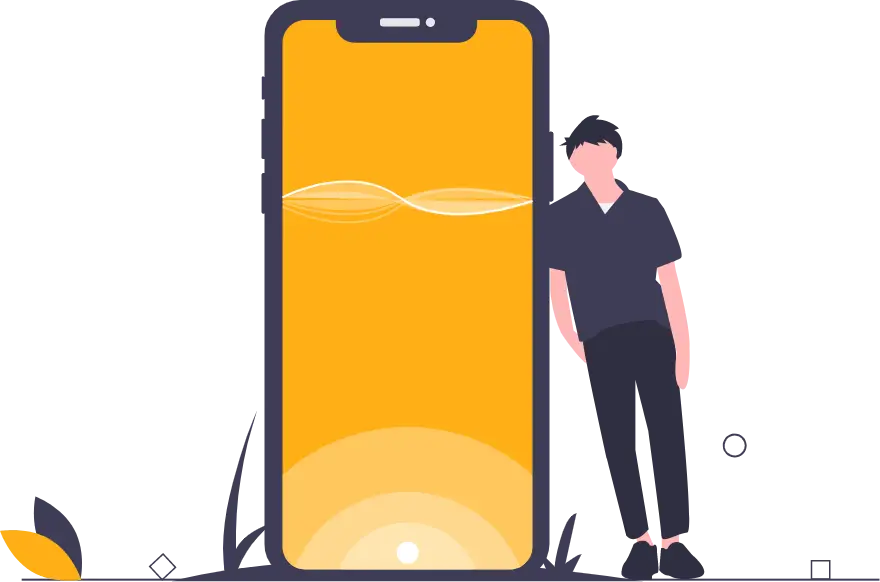
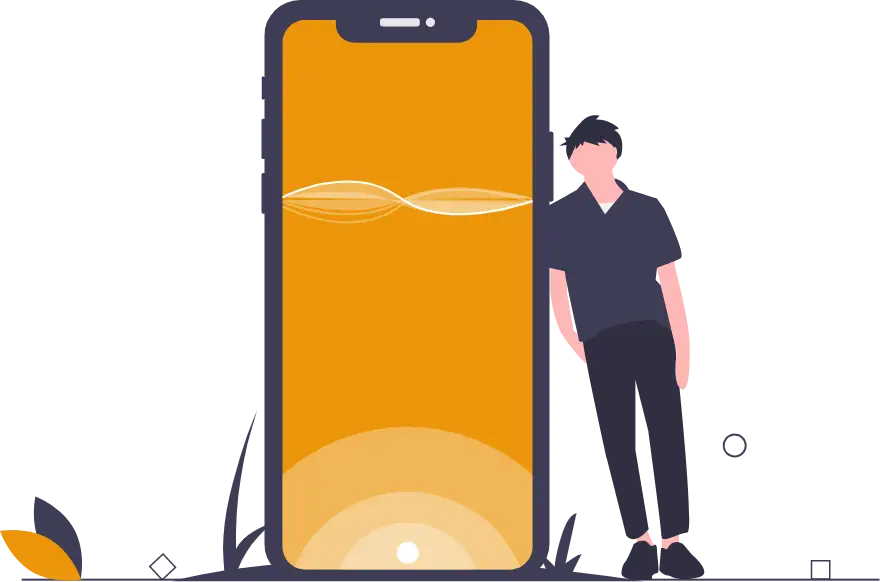
Themes

Changed region(s): [[0.3068, 0.0309, 0.6136, 0.8041], [0.0, 0.8969, 0.092, 1.0]]

diff --git a/src/components/Navbar/SelectColorModal/SelectColorModal.scss b/src/components/Navbar/SelectColorModal/SelectColorModal.scss
@@ -12,16 +12,25 @@
         fill: white;
     }
     &.dark {
-        background: $clr-primary-10-dark;
+        background: $clr-primary-7-dark;
+        svg {
+            fill: rgb(44, 44, 44);
+        }
     }
     &.light {
         background: $clr-primary-5;
     }
     &.blue {
-        background: $clr-primary-5-blue;
+        background: $clr-primary-3-blue;
+        svg {
+            fill: $clr-primary-7-blue;
+        }
     }
     &.yellow {
         background: $clr-primary-5-yellow;
+        svg {
+            fill: $clr-primary-8-yellow;
+        }
     }
 }
 
@@ -44,15 +53,24 @@
         fill: white;
     }
     &.dark {
-        background: $clr-primary-10-dark;
+        background: $clr-primary-7-dark;
+        svg {
+            fill: rgb(44, 44, 44);
+        }
     }
     &.light {
         background: $clr-primary-5;
     }
     &.blue {
-        background: $clr-primary-5-blue;
+        background: $clr-primary-3-blue;
+        svg {
+            fill: $clr-primary-7-blue;
+        }
     }
     &.yellow {
         background: $clr-primary-5-yellow;
+        svg {
+            fill: $clr-primary-8-yellow;
+        }
     }
 }

diff --git a/src/sass/global.scss b/src/sass/global.scss
@@ -183,7 +183,7 @@ p {
             color: $clr-white;
         }
         .tech-icon {
-            color: $clr-white;
+            color: $clr-primary-6-dark;
         }
         a {
             color: $clr-white;
@@ -250,7 +250,7 @@ p {
             color: $clr-black;
         }
         .tech-icon {
-            color: $clr-grey-5;
+            color: $clr-primary-5;
         }
         a {
             color: $font-color-dark;
@@ -311,7 +311,7 @@ p {
             color: $clr-white;
         }
         .tech-icon {
-            color: $clr-white;
+            color: $clr-primary-1-blue;
         }
         a {
             color: $clr-white;
@@ -378,7 +378,7 @@ p {
             color: $clr-white;
         }
         .tech-icon {
-            color: $clr-white !important;
+            color: $clr-primary-2-yellow;
         }
         a {
             color: $clr-white;

diff --git a/src/sass/colors.scss b/src/sass/colors.scss
@@ -18,6 +18,7 @@ $clr-grey-10: hsl(210, 36%, 96%);
 /* Dark Theme */
 
 $clr-primary-5-dark: #6234c3;
+$clr-primary-6-dark: #dac8ff;
 $clr-primary-7-dark: #8f62f7;
 $clr-primary-8-dark: #202020;
 $clr-primary-9-dark: #BB86FC;
@@ -27,6 +28,7 @@ $clr-grey-5-dark: #e8e8e8;
 
 /* Blue Theme */
 
+$clr-primary-1-blue: #9fc6fa;
 $clr-primary-3-blue: #5f92d4;
 $clr-primary-5-blue: #2761ad;
 $clr-primary-7-blue: #05112e;
